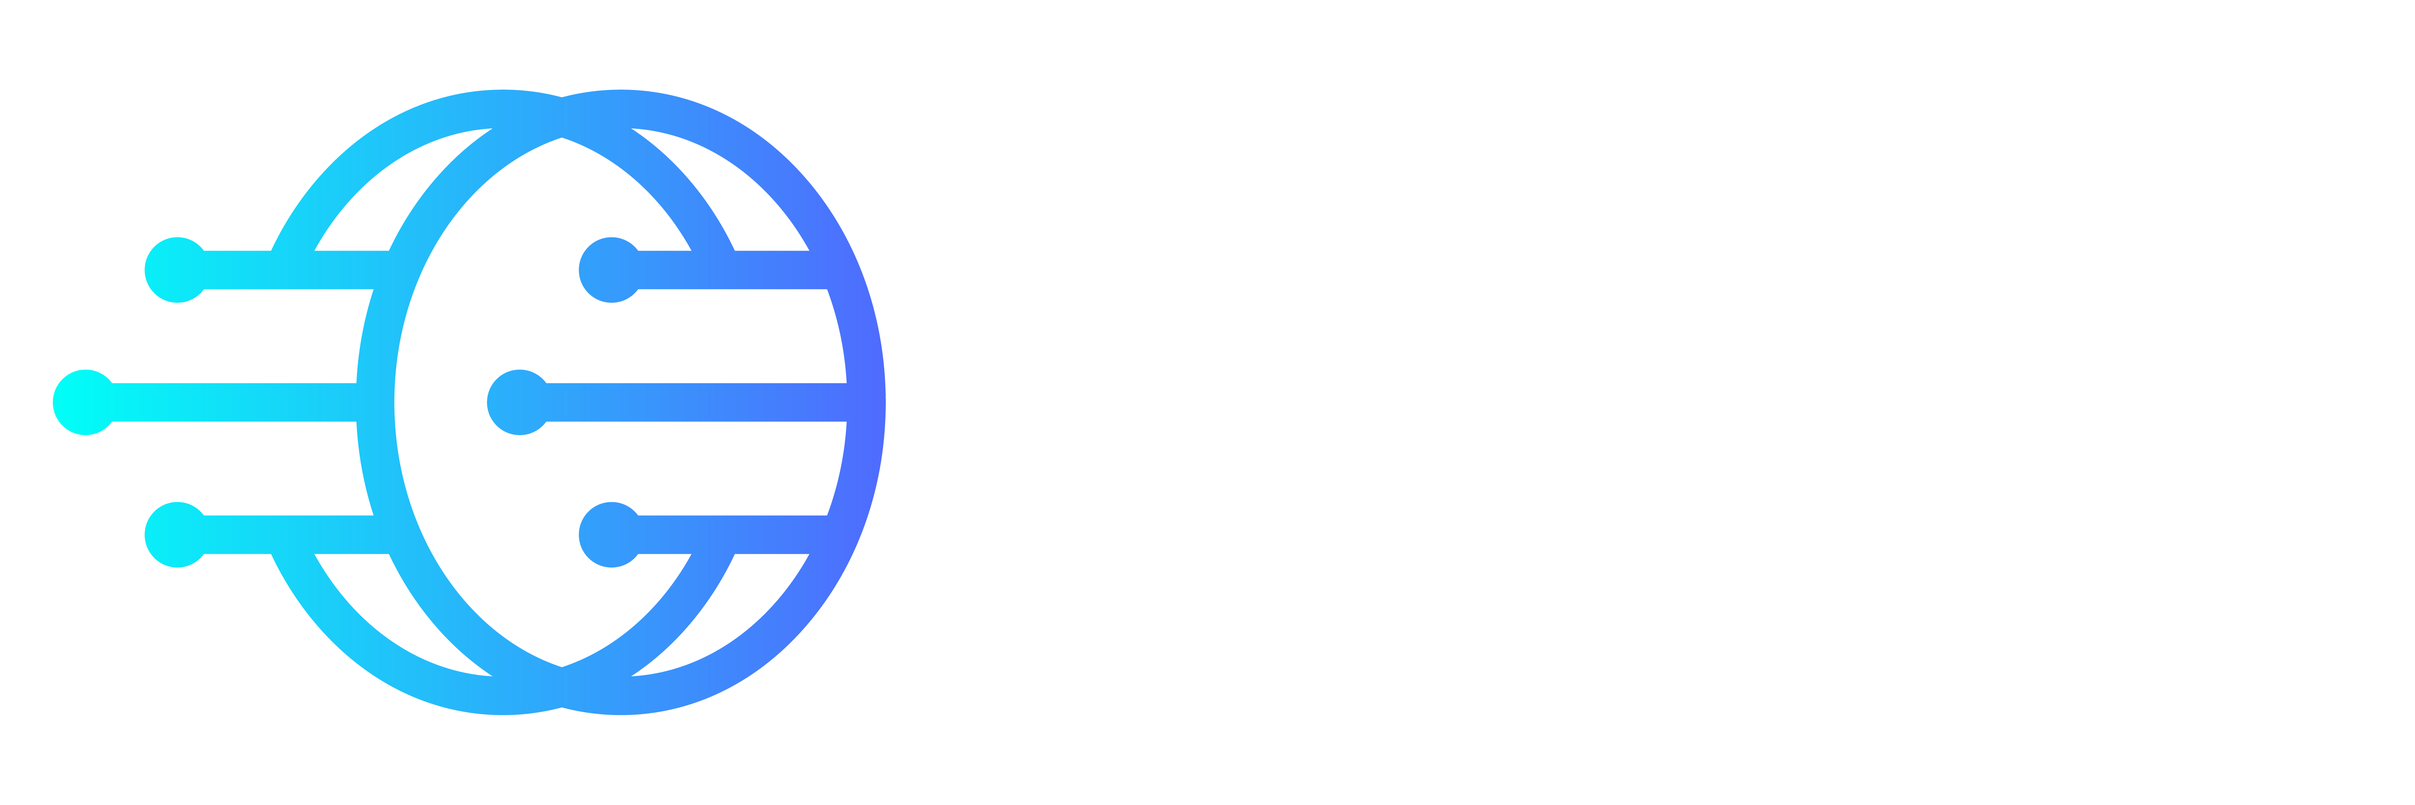
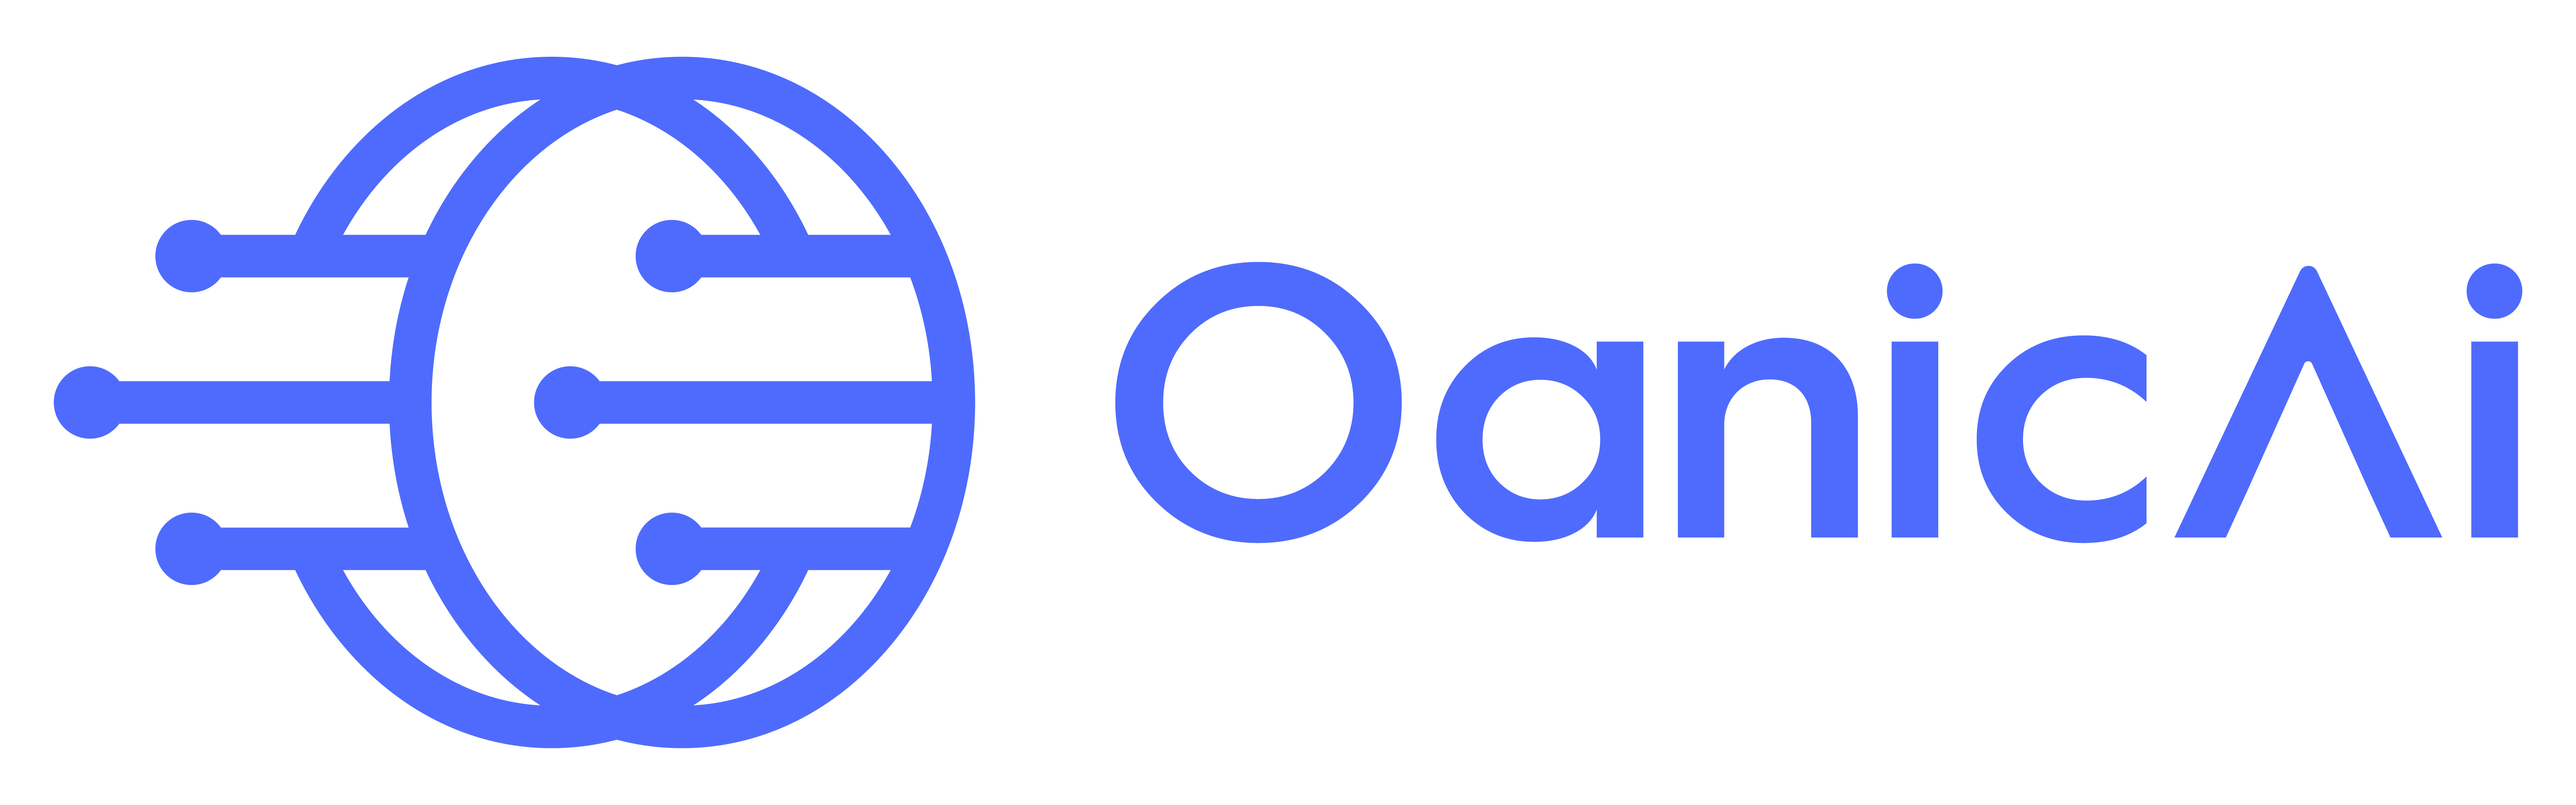
color changed

Changed region(s): [[0.0, 0.0624, 0.9982, 0.9357]]

diff --git a/pages/validate.tsx b/pages/validate.tsx
@@ -182,7 +182,7 @@ export default function ValidateNowPage() {
     <ProtectedLayout>
       <main className="flex-1 p-6 md:p-8 overflow-auto bg-white dark:bg-gray-950 text-gray-900 dark:text-gray-100">
         <div className="flex justify-between items-center mb-8">
-          <h1 className="text-3xl font-bold bg-gradient-to-r from-blue-600 to-purple-600 dark:from-blue-400 dark:to-purple-400 bg-clip-text text-transparent">
+          <h1 className="text-3xl font-bold bg-gradient-to-r from-[#4F6BFE] to-purple-600 dark:from-[#4F6BFE] dark:to-purple-400 bg-clip-text text-transparent">
             Validate Now
           </h1>
         </div>
@@ -269,7 +269,7 @@ export default function ValidateNowPage() {
                                     {/* Project Statistics */}
                                     <div className="space-y-4">
                                       <h4 className="font-semibold text-lg flex items-center">
-                                        <TrendingUp className="w-5 h-5 mr-2 text-blue-600 dark:text-blue-400" />
+                                        <TrendingUp className="w-5 h-5 mr-2 text-[#4F6BFE] dark:text-[#4F6BFE]" />
                                         Statistics
                                       </h4>
                                       <div className="space-y-3">
@@ -294,7 +294,7 @@ export default function ValidateNowPage() {
                                     {/* Team Information */}
                                     <div className="space-y-4">
                                       <h4 className="font-semibold text-lg flex items-center">
-                                        <User className="w-5 h-5 mr-2 text-blue-600 dark:text-blue-400" />
+                                        <User className="w-5 h-5 mr-2 text-[#4F6BFE] dark:text-[#4F6BFE]" />
                                         Team
                                       </h4>
                                       <div className="space-y-3">
@@ -323,7 +323,7 @@ export default function ValidateNowPage() {
                                     {/* Categories & Activity */}
                                     <div className="space-y-4">
                                       <h4 className="font-semibold text-lg flex items-center">
-                                        <FileCheck className="w-5 h-5 mr-2 text-blue-600 dark:text-blue-400" />
+                                        <FileCheck className="w-5 h-5 mr-2 text-[#4F6BFE] dark:text-[#4F6BFE]" />
                                         Categories
                                       </h4>
                                       <div className="space-y-2">
@@ -349,7 +349,7 @@ export default function ValidateNowPage() {
                                   {/* Project Notes */}
                                   <div className="mt-6 pt-6 border-t border-gray-200 dark:border-gray-700">
                                     <h4 className="font-semibold text-lg flex items-center mb-3">
-                                      <AlertCircle className="w-5 h-5 mr-2 text-blue-600 dark:text-blue-400" />
+                                      <AlertCircle className="w-5 h-5 mr-2 text-[#4F6BFE] dark:text-[#4F6BFE]" />
                                       Project Notes
                                     </h4>
                                     <div className="text-sm text-gray-600 dark:text-gray-400 leading-relaxed whitespace-pre-line">
@@ -366,7 +366,7 @@ export default function ValidateNowPage() {
                                       <button
                                         onClick={() => handleDownloadFiles(project, 'fileIds')}
                                         disabled={downloadingFiles[`${project.id}-fileIds`]}
-                                        className="px-4 py-2 bg-gradient-to-r from-blue-500 to-cyan-500 hover:from-blue-600 hover:to-cyan-600 text-white rounded-lg font-medium transition-all flex items-center"
+                                        className="px-4 py-2 bg-gradient-to-r from-[#4F6BFE] to-cyan-500 hover:from-[#4F6BFE] hover:to-cyan-600 text-white rounded-lg font-medium transition-all flex items-center"
                                       >
                                         {downloadingFiles[`${project.id}-fileIds`] ? <Loader2 className="w-4 h-4 mr-2 animate-spin" /> : <Download className="w-4 h-4 mr-2" />}
                                         Download Submitter Files

diff --git a/pages/upload-projects.tsx b/pages/upload-projects.tsx
@@ -284,7 +284,7 @@ export default function UploadProjectsPage() {
     <ProtectedLayout>
       <main className="flex-1 p-6 md:p-8 overflow-auto bg-white dark:bg-gray-950 text-gray-900 dark:text-gray-100">
         <div className="flex justify-between items-center mb-8">
-          <h1 className="text-3xl font-bold bg-gradient-to-r from-blue-600 to-purple-600 dark:from-blue-400 dark:to-purple-400 bg-clip-text text-transparent">
+          <h1 className="text-3xl font-bold bg-gradient-to-r from-[#4F6BFE] to-purple-600 dark:from-[#4F6BFE] dark:to-purple-400 bg-clip-text text-transparent">
             Upload Projects
           </h1>
         </div>
@@ -294,7 +294,7 @@ export default function UploadProjectsPage() {
           <div className="rounded-2xl bg-gray-100 dark:bg-gray-900 border border-gray-200 dark:border-gray-800 shadow-md dark:shadow-[0_0_15px_rgba(56,189,248,0.1)] overflow-hidden">
             <div className="p-6 border-b border-gray-200 dark:border-gray-800">
               <h2 className="text-xl font-bold flex items-center">
-                <Upload className="h-5 w-5 mr-2 text-blue-600 dark:text-blue-400" />
+                <Upload className="h-5 w-5 mr-2 text-[#4F6BFE] dark:text-[#4F6BFE]" />
                 Upload New Project
               </h2>
             </div>
@@ -320,7 +320,7 @@ export default function UploadProjectsPage() {
 
                 <div className="space-y-4">
                   <div className="mx-auto w-16 h-16 rounded-full bg-blue-100 dark:bg-blue-900/30 flex items-center justify-center">
-                    <Upload className="w-8 h-8 text-blue-600 dark:text-blue-400" />
+                    <Upload className="w-8 h-8 text-[#4F6BFE] dark:text-[#4F6BFE]" />
                   </div>
 
                   <div>
@@ -364,7 +364,7 @@ export default function UploadProjectsPage() {
                         {/* Project Name */}
                         <label className="flex flex-col text-gray-700 dark:text-gray-200">
                           Project Name
-                          <input name="name" value={projectForm.name} onChange={handleProjectFormChange} className="p-2 border rounded bg-white dark:bg-gray-800 border-gray-300 dark:border-gray-700 focus:ring-2 focus:ring-blue-500 focus:border-blue-500 transition-colors" required />
+                          <input name="name" value={projectForm.name} onChange={handleProjectFormChange} className="p-2 border rounded bg-white dark:bg-gray-800 border-gray-300 dark:border-gray-700 focus:ring-2 focus:ring-[#4F6BFE] focus:border-[#4F6BFE] transition-colors" required />
                         </label>
                         {/* Priority Dropdown */}
                         <label className="flex flex-col text-gray-700 dark:text-gray-200">

diff --git a/pages/dashboard.tsx b/pages/dashboard.tsx
@@ -187,7 +187,7 @@ export default function Dashboard() {
     <ProtectedLayout>
       <div className="space-y-8">
         <div>
-          <h1 className="bg-gradient-to-r from-blue-500 to-purple-600 bg-clip-text text-3xl font-bold text-transparent">
+          <h1 className="bg-gradient-to-r from-[#4F6BFE] to-purple-600 bg-clip-text text-3xl font-bold text-transparent">
             <TextGenerateEffect words="Welcome to OanicAI Dashboard" />
           </h1>
           <p className="mt-2 text-muted-foreground">
@@ -399,7 +399,7 @@ export default function Dashboard() {
                         {activity.type === "completion" ? (
                           <Award className="h-4 w-4 text-green-600 dark:text-green-400" />
                         ) : activity.type === "validation" ? (
-                          <CheckCircle className="h-4 w-4 text-blue-600 dark:text-blue-400" />
+                          <CheckCircle className="h-4 w-4 text-[#4F6BFE] dark:text-[#4F6BFE]" />
                         ) : activity.type === "labeling" ? (
                           <FileText className="h-4 w-4 text-purple-600 dark:text-purple-400" />
                         ) : activity.type === "connect" ? (
